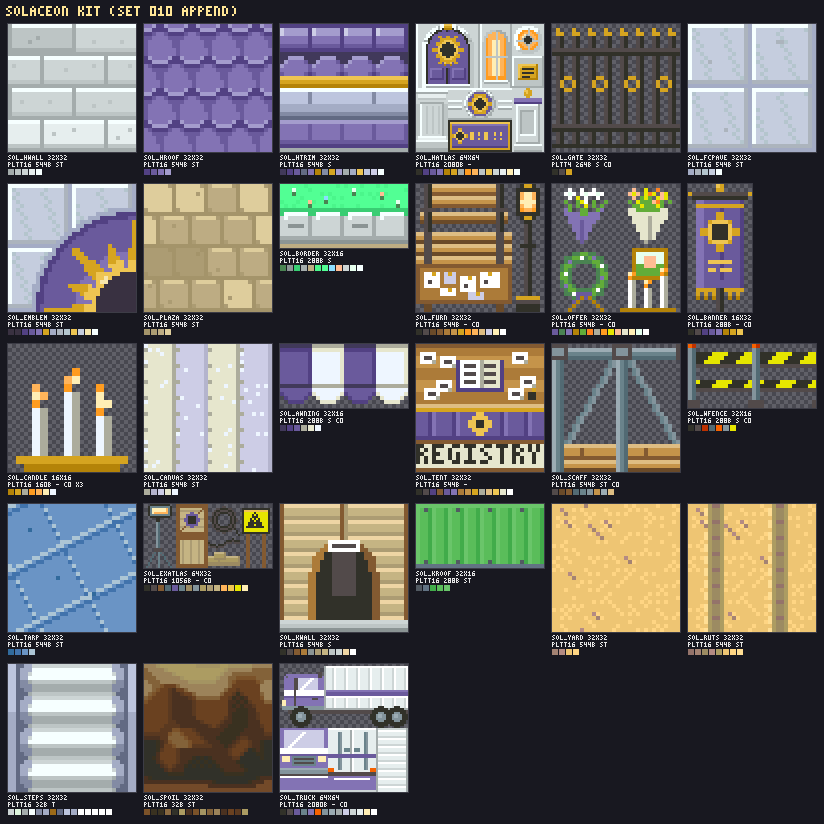
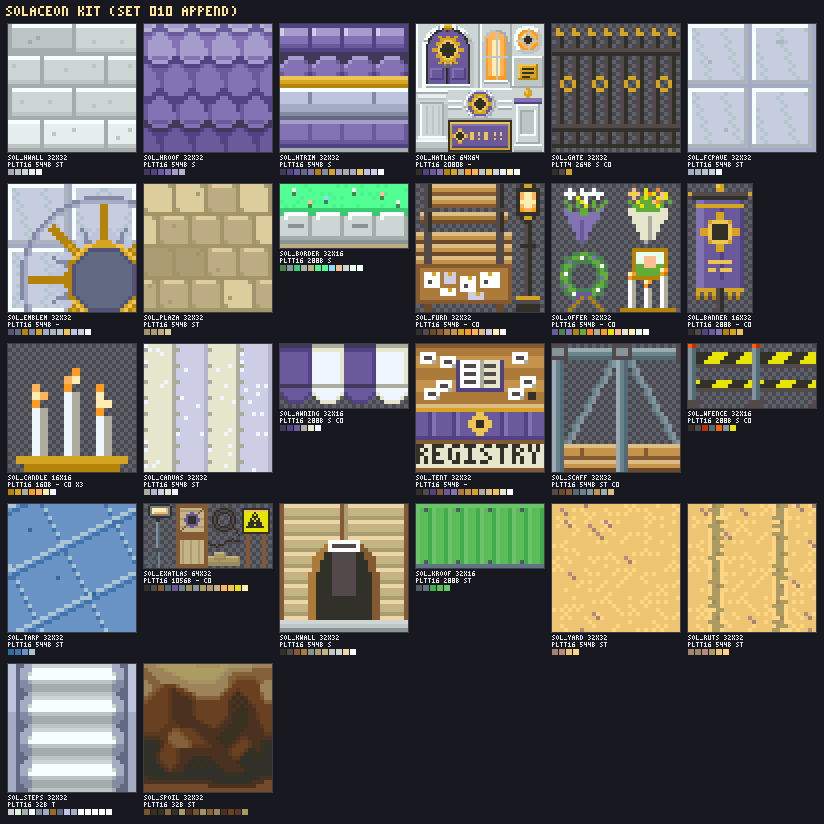
Solaceon town-art: art.md section 6 (the applied art pass, budgets, checks, verification, open issues), README, in-game screenshots, kit sheet; preview_kit follows the 3x3 emblem and the cut truck

diff --git a/tools/solaceon_town/art/preview_kit.py b/tools/solaceon_town/art/preview_kit.py
@@ -13,12 +13,12 @@ tools/lake_verity/blender_preview.py --views game --dscolor (CAMERA_TYPE_ZOOMED_
     gabled front bay to h 5), its walled compound with gate posts, open gate and forecourt emblem; the memorial plaza
     (benches, lanterns, card board, offerings, candles, garden of names); the registration tent; the excavation
     (scaffold, warning fence, work lights, KEEP OUT board, tarp pile, crates, cable, sandbags); the ranch (kennel
-    block, yard, truck).
+    block, yard).
 Every kit texture appears at least once (checked). Outputs to <preview dir>/render/:
   street_top.png            whole mock, straight down, 8 px per tile
   <view>_game.png           field camera on each zone (see VIEWS)
-The emblem uses a pre-mirrored preview copy (blender_preview.py has no mirrored repeat); the game material mirrors
-the 32x32 quadrant with repeat + flip.
+The emblem uses a pre-mirrored 48x48 preview copy of the 24x24 quadrant; the game draws the 3x3 inlay as four quads
+with mirrored UVs (tools/solaceon_town/build_art.py build_emblem).
 """
 import json
 import os
@@ -40,7 +40,7 @@ VIEWS = {
     "plaza": (8.0, 18.5),       # benches, lanterns, offerings, garden of names
     "tent": (18.0, 17.0),       # registration tent
     "dig": (41.0, 6.5),         # excavation
-    "ranch": (35.0, 19.0),      # kennel block, yard, truck
+    "ranch": (35.0, 19.0),      # kennel block, yard
 }
 
 
@@ -237,7 +237,7 @@ def compound(s):
     # forecourt: flags on the emblem's grid (u offset by half a tile), emblem decal on top
     s.tiled_floor("sol_fcpave", 17.0, 8.0, 34.0, 12.0, 0.01, 2.0, ox=23.5, oz=8.0)
     s.tiled_floor("sol_fcpave", 24.5, 12.0, 26.5, 13.0, 0.01, 2.0, ox=23.5, oz=8.0)
-    s.floor("sol_emblem_full", 23.5, 8.0, 27.5, 12.0, 0.02, (0, 0, 1, 1))
+    s.floor("sol_emblem_full", 24.0, 8.5, 27.0, 11.5, 0.02, (0, 0, 1, 1))     # 3x3 tiles (town-art)
     # lanterns in the forecourt corners, banners outside the gate
     s.mat("sol_furn")
     s.mat("sol_banner")
@@ -341,8 +341,8 @@ def dig(s):
 
 
 def ranch(s):
-    """Kennel block (x 24..32, z 19..21), loading yard (x 33..47, z 16..24), parked truck."""
-    for m in ("sol_kwall", "sol_kroof", "sol_yard", "sol_ruts", "sol_truck"):
+    """Kennel block (x 24..32, z 19..21), loading yard (x 33..47, z 16..24). (sol_truck was cut by town-art.)"""
+    for m in ("sol_kwall", "sol_kroof", "sol_yard", "sol_ruts"):
         s.mat(m)
     s.tiled_floor("sol_yard", 33, 16.0, 47.5, 24.0, 0.01, 2.0)
     s.floor("sol_ruts", 43.0, 16.0, 45.0, 24.0, 0.015, (0, 0, 1, 4))
@@ -357,16 +357,6 @@ def ranch(s):
            [(0, kl), (4.2, kl), (4.2, 0), (0, 0)])
     s.quad("sol_kroof", [(32.2, 2.0, 18.8), (23.8, 2.0, 18.8), (23.8, 2.8, 20), (32.2, 2.8, 20)],
            [(0, kl), (4.2, kl), (4.2, 0), (0, 0)])
-    # truck: side quads (cab + box in one image), cab front, rear doors, roofs
-    T = (64, 64)
-    x0, x1, z0, z1 = 38.0, 42.25, 19.0, 20.75
-    s.wall("sol_truck", x0, z1, x1, z1, 0, 2.0, px(0, 0, 64, 32, 64, 64))
-    s.wall("sol_truck", x1, z0, x0, z0, 0, 2.0, px(0, 0, 64, 32, 64, 64))
-    s.wall("sol_truck", x0, z0, x0, z1, 0.15, 1.65, px(0, 32, 24, 56, 64, 64))
-    s.wall("sol_truck", x1, z1, x1, z0, 0.15, 1.65, px(24, 32, 48, 56, 64, 64))
-    s.quad("sol_truck", [(39.4, 1.94, z1), (x1, 1.94, z1), (x1, 1.94, z0), (39.4, 1.94, z0)],
-           [(48 / 64, 32 / 64), (48 / 64, 1.0), (1.0, 1.0), (1.0, 32 / 64)])
-    s.floor("sol_truck", x0, z0, 39.4, z1, 1.62, px(0, 56, 24, 64, 64, 64))
 
 
 def ground(s):
@@ -387,14 +377,15 @@ def stock_prop(model_id, x, z, name, h=0.0):
 
 
 def full_emblem(src, dst):
-    """Mirror the 32x32 quadrant into the 64x64 the game shows (repeat + flip on s and t)."""
+    """Mirror the 24x24 quadrant (texels 0..23) into the 48x48 3x3-tile inlay the game draws with four mirrored-UV
+    quads (build_art.build_emblem)."""
     im = png.read(src)
     q = im.pixels
     rows = []
-    for y in range(64):
-        yy = y if y < 32 else 63 - y
-        rows.append([q[yy][x if x < 32 else 63 - x] for x in range(64)])
-    png.write_rgba(dst, 64, 64, rows)
+    for y in range(48):
+        yy = y if y < 24 else 47 - y
+        rows.append([q[yy][x if x < 24 else 47 - x] for x in range(48)])
+    png.write_rgba(dst, 48, 48, rows)
     open(dst[:-4] + ".json", "w").write('{"format": "pltt16"}')
 
 

diff --git a/docs/solaceon_redesign/art.md b/docs/solaceon_redesign/art.md
@@ -1,9 +1,10 @@
 # Solaceon redesign: texture kit (textures workstream)
 
-The kit holds 27 entries for set 010: 25 new textures and 2 palette-only recolours of stock set-010 texels. It is
-built to look like it shipped with Platinum, and it fits the PLAN.md budget of +24 KB with about 9 KB to spare. This
-workstream does **not** write set 010. `tools/solaceon_town/textures_kit.py` appends the kit, does a dry run by
-default, and is for town-art to run with `--write`.
+The kit holds 26 entries for set 010: 24 new textures and 2 palette-only recolours of stock set-010 texels. It is
+built to look like it shipped with Platinum, and it fits the PLAN.md budget of +24 KB with about 11 KB to spare.
+The town-art pass (section 6) applied it: `tools/solaceon_town/build_art.py --write` builds set 010 through
+`textures_kit.build` together with the final chunks 072/073 and the candle animation. Town-art changed three
+entries (the 3x3 toned-down emblem, the roof gradient, softer ruts) and dropped `sol_truck`.
 
 ![kit](art/kit_sheet.png)
 
@@ -91,13 +92,13 @@ Bytes are as `textures_kit.py` builds them: palettes are trimmed to the highest 
 | texture | group | format | size | frames | texel B | pal B | repeat | c0 | what / UV rule (16 texels per tile) |
 |---|---|---|---|---|---|---|---|---|---|
 | sol_hwall | hall | pltt16 | 32x32 | 1 | 512 | 16 | s t | 0 | pale ashlar, 16x8 blocks; hall walls and the compound wall |
-| sol_hroof | hall | pltt16 | 32x32 | 1 | 512 | 16 | s t | 0 | violet round tiles, rows along s; v down the slope, 2 tiles per repeat |
+| sol_hroof | hall | pltt16 | 32x32 | 1 | 512 | 16 | s | 0 | violet round tiles in 4 rows that darken from the ridge (v 0) to the eave (v 1), the stock light-to-dark roof band; v maps once across the whole slope (about 12 texels per tile down a 2.7-tile slope, inside the stock roof range 6 to 13); u 2 tiles per repeat |
 | sol_htrim | hall | pltt16 | 32x32 | 1 | 512 | 32 | s | 0 | 4 bands of 8 px (0.5 tile): v 0-.25 ridge cap, .25-.5 eave tile ends over a gold fascia, .5-.75 lilac plinth, .75-1 violet coping |
 | sol_hatlas | hall | pltt16 | 64x64 | 1 | 2048 | 32 | - | 0 | double door with eclipse (0,0 32x32 = 2x2 tiles); arched lit window (32,0 16x32); oculus (48,0); plaque (48,16); pilaster (0,32 16x32: capital rows 0-7, shaft 8-23 may stretch, base 24-31); gable medallion (16,32 32x16); sign board (16,48 32x16); gate post (48,32 16x32) |
 | sol_gate | hall | pltt4 | 32x32 | 1 | 256 | 8 | s | 1 | iron bars, gold spear tips and rings, see-through; gate leaves or railings |
 | sol_steps | hall | pltt16 | (newstep 32x32) | 1 | 0 | 24 | t | 0 | **palette only**: stock newstep + palette sol_steps (pale stone treads, lilac cheeks) |
 | sol_fcpave | forecourt | pltt16 | 32x32 | 1 | 512 | 16 | s t | 0 | forecourt flags, one per tile, blueglay-style checker |
-| sol_emblem | forecourt | pltt16 | 32x32 | 1 | 512 | 32 | s t + **flip** | 0 | quadrant of the 4x4-tile eclipse (dark disc, gold ring, violet corona, 16 gold rays); material repeat+flip s/t, UV 0..2 over the 4x4 tiles |
+| sol_emblem | forecourt | pltt16 | 32x32 | 1 | 512 | 32 | - | 0 | quadrant (texels 0..23 = 1.5 tiles) of the **3x3-tile**, toned-down eclipse inlay: slate disc, thin gold ring, 8 thin gold rays and 8 short lilac ones, a faint lilac corona, a carved lilac double ring, the forecourt flags showing through; texels 24..31 mirror it. Drawn as 4 quads with mirrored UVs (no flip material) |
 | sol_plaza | plaza | pltt16 | 32x32 | 1 | 512 | 16 | s t | 0 | warm beige setts, 4 per tile, running bond |
 | sol_border | plaza | pltt16 | 32x16 | 1 | 256 | 32 | s | 0 | garden-of-names edge strip 2x1 tiles: grass + flowers (v 0), kerb stones with name lines, kerb shadow (v 1) |
 | sol_furn | plaza | pltt16 | 32x32 | 1 | 512 | 32 | - | 1 | bench side (0,0 24x12 = 1.5x0.75 t), bench top (0,12 24x8), memorial card board (0,20 24x12), lantern post with lit lamp (24,0 8x32 = 0.5x2 t) |
@@ -115,31 +116,33 @@ Bytes are as `textures_kit.py` builds them: palettes are trimmed to the highest 
 | sol_kwall | ranch | pltt16 | 32x32 | 1 | 512 | 24 | s | 0 | kennel front: Day Care boards, one arched kennel + name plate per 2 tiles, concrete footing; rows 0-8 alone = plain boards for sides |
 | sol_kroof | ranch | pltt16 | 32x16 | 1 | 256 | 16 | s t | 0 | corrugated sheet in the Day Care roof green, ridges down the slope (t) |
 | sol_yard | ranch | pltt16 | 32x32 | 1 | 512 | 16 | s t | 0 | packed yard dirt (darker than the road) |
-| sol_ruts | ranch | pltt16 | 32x32 | 1 | 512 | 24 | s t | 0 | yard lane 2 tiles wide: same dirt, two tyre ruts 1 tile apart along t |
-| sol_truck | ranch | pltt16 | 64x64 | 1 | 2048 | 32 | - | 1 | parked truck: side with cab + box + wheels (0,0 64x32 = 4.25x2 t), cab front (0,32 24x24), rear doors (24,32), box roof (48,32 16x32), cab roof (0,56), bonnet (24,56) |
-| **total** | | | | | **14464** | **624** | | | **15088 B** |
+| sol_ruts | ranch | pltt16 | 32x32 | 1 | 512 | 16 | s t | 0 | yard lane 2 tiles wide: same dirt, two soft tyre ruts (checker-edged pressed bands, sparse tread marks) 1 tile apart along t |
+| **total** | | | | | **12416** | **584** | | | **13000 B** |
 
-**VRAM:** set 010 goes from 45952 B to **61088 B** (+15136 B with alignment; texels 44544 -> 59008, palettes
-1408 -> 2080). The budget is +24576 B, and the set stays below the 76416 B proven ceiling of set 048. The set grows
-from 63 to 88 textures and from 60 to 87 palettes. For scale: Solaceon's building textures, areabm_texset 6, take
+`sol_truck` (2080 B) was cut by town-art: the truck has to vanish in some story bands, so the bay gets ground and
+ruts only and the story scripts put crate objects there.
+
+**VRAM:** set 010 goes from 45952 B to **58992 B** (+13040 B with alignment; texels 44544 -> 56960, palettes
+1408 -> 2032). The budget is +24576 B, and the set stays below the 76416 B proven ceiling of set 048. The set grows
+from 63 to 87 textures and from 60 to 86 palettes. For scale: Solaceon's building textures, areabm_texset 6, take
 another 39120 B in the same texture VRAM bank.
 
-**Stretch items, cut first** (`textures_kit.STRETCH`): sol_truck 2080 B, then sol_ruts 536 B, sol_candle 144 B
-(fldtanime), sol_tarp 528 B and sol_border 288 B. Cutting all five saves about 3.6 KB. After those, sol_hatlas is
+**Stretch items, cut first** (`textures_kit.STRETCH`): sol_ruts 528 B, sol_candle 144 B (fldtanime), sol_tarp
+528 B and sol_border 288 B (sol_truck is already cut). Cutting all four saves about 1.5 KB. After those, sol_hatlas is
 the biggest single item. Its regions could drop to 32x64, losing the gate post and the sign, which saves about
 1 KB.
 
 ### Material rules for town-art
 
 - Map materials as stock: lit (`poly_attr 0x001f8081`), back-face culled. The see-through c0 textures (gate, scaff,
-  wfence, awning, furn, offer, banner, candle, exatlas, truck) want `cull none` where both sides show.
+  wfence, awning, furn, offer, banner, candle, exatlas) want `cull none` where both sides show.
   - The kit bakes light only into small accents: lit window glass, lamps, candle flames, the gold flash. It all
     follows the area light like stock.
-- **Emblem:** the material for sol_emblem needs repeat **and flip** on s and t (`make_material(..., flip=(True,
-  True))`). Map UV 0..2 over the 4x4 tiles, which centres the disc on the tiles' shared corner. The emblem's outer
-  flags sit on its own tile grid. Its centre is on the door axis (a 9-wide hall puts the door tile at x+4, so the
-  disc centre is at a tile *centre*). When that happens, offset the sol_fcpave UV by half a tile
-  (`u = (x - x_emblem0) / 2`) so the flags line up, as the mock does.
+- **Emblem (as applied, 3x3):** four quads over layout.EMBLEM (x 579..581, z 654..656), split at the centre
+  (580.5, 655.5): NW u 0..0.75 / v 0..0.75, NE u 0.75..0, SW v 0.75..0, SE both mirrored; no repeat, no flip. The
+  sol_fcpave UV origin is the emblem's NW corner (`u = (x - 579) / 2, v = (z - 654) / 2`), the rule above with a
+  3x3 inlay whose edges fall on tile edges, so its flags and the forecourt's line up. (The 4x4 version needed a
+  half-tile offset and a flip material; neither is used now.)
 - **Palette-only entries:**
   - `sol_steps`: texture `newstep`, palette `sol_steps`
   - `sol_spoil`: texture `criffp`, palette `sol_spoil`
@@ -208,16 +211,135 @@ python3 tools/solaceon_town/textures_kit.py --write      # refuses if any check 
 ## 5. Open questions
 
 - **Platinum feel** (judged from renders only, not on hardware):
-  - The forecourt emblem is large and bright. It is the plan's centrepiece, but at 4x4 tiles of saturated violet
-    and gold it is the loudest thing on screen. A 3x3 version or a duller corona (violet3 instead of gold rays) is a
-    one-line change.
-  - The violet roof is a regular scallop pattern with no baked gradient. Stock roofs bake a light-to-dark band into
-    the atlas, and lighting does part of that work here.
-  - The truck is new territory: Sinnoh towns have no parked vehicles. It reads as a box truck, but it is a stretch
-    item.
-- Not checked in game: the flip material on sol_emblem, the fldtanime entry for sol_candle, and the night look of
-  the baked warm accents.
+  - (Resolved by town-art) the emblem is 3x3 and toned down; the roof has the ridge-to-eave gradient; the truck is
+    cut.
+- Checked in game by town-art (section 6): the sol_candle fldtanime entry animates (two screenshots 10 frames apart
+  differ); the baked warm accents (windows, lamps) darken at night with everything else, as lit materials do.
 - Banners: the moving Eclipse banners are object events. `sol_banner` should match their colours, but I have not
   compared it against the object sprite.
 - The hall here is a graybox of my own. Its real footprint, heights and door tile come from the town-layout
   workstream, and the UV rules above work for any layout.
+
+## 6. The town-art pass (applied; town-art workstream)
+
+`tools/solaceon_town/build_art.py` turns the graybox into the final map_data_072/073 and applies the kit. It reads its
+stock inputs from git at `BASE_REV = 50482f890` (chunks, set 010, build models, area data) and the kit from
+`tools/solaceon_town/assets/textures/`, so reruns never feed back; a second `--write` is byte-identical.
+
+```
+python3 tools/solaceon_town/build_art.py                     # dry run: budgets + every check
+python3 tools/solaceon_town/build_art.py --preview OUT       # OUT/art/: decoded chunk meshes, props, textures
+python3 tools/solaceon_town/render.py OUT --art --cycles     # OUT/art_top.png + art_<view>_game.png (field camera)
+python3 tools/solaceon_town/build_art.py --write             # map_data_072/073, set 010, fldtanime.narc
+tools/macos/build.sh dev
+python3 tools/solaceon_town/art_test.py build_macos OUT/game --night --skip-route-209   # in-game screenshots
+```
+
+It writes `res/field/mapmodels/data/map_data_072.bin` / `073.bin` (`OUT_MAP_DIR`), set 010 at
+`textures_kit.SET_REL` (`res/field/mapmodels/texture_sets/`) and `res/prebuilt/data/fldtanime.narc`. The tile
+contract is untouched: permissions and BDHC come from collision.py, the props are the graybox's (Day Care, PC, Mart,
+three t4_h01 houses, the gym door 298 on the hall door), and the builder checks all of it.
+
+![hall](art/game_day_07_hall_door.png)
+
+### What it builds
+
+Stock terrain outside `layout.REBUILD` stays byte for byte (the Day Care ranch with the memorial wall, untouched;
+build_wall.py is not rerun; and the Ruins hill). Inside, everything is new, lit like stock and back-face culled
+except the see-through cards (`<kit>_2s` materials, cull none):
+
+- **Ground:** stock `ngrass`, `nsand`, the stock road-edge mapping of `nsandp`, stock `l_grass_u/m/d` tall grass;
+  `sol_plaza` setts on the plaza and in front of the Pokemon Center; inside the compound a paved forecourt
+  (`sol_fcpave`, x 575..585, z 653..657, UV origin on the emblem's NW corner) between lawns (`ngrass`) with two
+  `nhana` flower beds; the 3x3 `sol_emblem` inlay (four quads); `sol_yard` dirt for the dig, the kennel block and the
+  loading yard; the `sol_ruts` lane (2 tiles wide, z 666..668) from the truck bay's west end (x 550) to the road
+  verge (x 557). No truck: the bay is ground and ruts only, for story crate objects.
+- **Sanctuary hall** (footprint x 576..584, z 648..652): body x 576.1..584.9 from z 648.15; wing fronts at
+  z 651.45, 2.5 tiles of pale ashlar on a 0.5-tile lilac plinth, corner pilasters, one lit arched window per wing;
+  the front bay x 578.6..582.4 flush with the gym door prop (z 651.98 vs the prop's 652.0), walls 3.5, the opening
+  behind the door dark (seen when it slides), pilasters either side, the sign board above the door and the
+  medallion in the gable (apex 5.0 tiles, ridge cap 5.1, taller than a house's 4.7); a violet hip roof (eaves 2.5,
+  ridge 4.0, 0.3 overhang, gold eave fascia, ridge cap) with the bay's gable roof running back into it. The
+  blocked door row carries steps across the bay (`sol_steps`, two treads) and 0.4-tile flower planters (lilac
+  plinth, `nhana` top) in front of the wings.
+- **Compound:** a 0.95-tile wall (ashlar to 0.55, violet coping band and top) on the layout ring; iron railings
+  (`sol_gate`, gold spear tips) on the street-side wall either side of the gate; gate pillars (the `sol_hatlas` gate
+  post on three faces, coping caps); the gate itself stands open; forecourt lanterns; Eclipse supply crates
+  (`sol_exatlas`) in the west yard.
+- **Pilgrim road:** the four banner posts (`sol_banner` cards leaning back 18 degrees, like stock props lean toward
+  the camera); the registration tent: canvas back (just inside the fence row, so the clerk's tile only has the roof
+  over it), sides, gable ends and a pitched roof, the striped valance across the open south front with its bottom
+  1.45 tiles up, front poles on the table row's edge, the table (ledger and cards on top, eclipse front cloth),
+  record boxes either side of the clerk and the REGISTRY board over the valance; the tent sign is the `sol_hatlas`
+  sign board on a post.
+- **Plaza:** lanterns (`sol_furn`, 2 tiles, leaning 14 degrees so they do not cover the tile behind), the bench along
+  x 563 facing the wall (slatted seat, backrest, end boards), offerings at both ends of the wall (wreath / photo
+  cards 1 tile tall, lilies / posy, and the animated `sol_candle` dish), the memorial plaque lectern, the kerb with
+  name lines along the garden's plaza side.
+- **Excavation:** scaffold faces and ends along the cliff (the west deck under a blue tarp, the east one planks),
+  work lights, the warning fence on z 659 with the gap, the KEEP OUT board on the warning-sign tile, a crate stack,
+  a spoil heap (`sol_spoil`), a cable and sandbags as ground decals.
+- **Ranch:** the kennel block (boards with one arched kennel per stall, the arch centred on each stall tile), a
+  mono-pitch green corrugated roof, board dividers, the kennel sign plaque; stock picket fences around the yard.
+- Stock-style trees (the 4 quads of a stock tree2_01 tree) and picket fences (imped) as in the graybox.
+
+**Lighting:** every new material is lit (stock map attributes), so it follows the time-of-day light. Light is baked
+only into small texture accents (window glass, lamp heads, candle flames), which darken at night with everything else
+(see `art/game_night_07_hall_door.png`); the stock houses' night-lit windows are a prop feature the terrain does not
+have.
+
+**Candle animation:** fldtanime entry `sol_candle` (3 frames x 6 VBlanks), added or replaced by name in the work
+tree's archive (entry 55 / member 56 on this branch). Its frames are checked to share the base texture's palette,
+size and (frame 1) texels. After merging another branch that also appends to fldtanime, rerun `build_art.py --write`.
+
+### Budgets (as written)
+
+| chunk | polygons | stock kept | new | verts sent | model B | BDHC B | materials | props |
+|---|---|---|---|---|---|---|---|---|
+| 072 | 420 | 165 | 255 | 1676 | 26296 | 66 | 47 | 8 (391 polygons) |
+| 073 | 765 | 479 | 286 | 2609 | 38320 | 172 | 35 | 5 (188 polygons) |
+
+Limits: 1000 polygons and 45 KB (46080 B) of model per chunk, hard 0xF000. On screen (terrain of every loaded chunk
+incl. 068/074/filler plus all props, frustum + back-face culling at every walkable tile): worst 343 polygons with
+CAMERA_TYPE_DEFAULT and 354 with the zoomed-in camera; limit 2048. Set 010: 45952 -> 58992 B (+13040 B of the
++24576 B budget; ceiling 76416 B), 26 kit entries, stock textures and palettes unchanged.
+
+### Checks (`--write` refuses on any FAIL)
+
+Permissions and BDHC equal layout.py in both chunks; all 93 layout checks (anchors, seams, edges, signs, NPC spots,
+reachability); every door tile has a building behind it and a door prop on it; props in area 0xA's list and identical
+to the graybox's; untouched stock shapes and all stock materials byte-identical; every walkable rebuilt tile is drawn
+at its layout height; nothing solid is drawn inside a walkable tile below 1.3 tiles (stock tree overhangs aside);
+polygon / model / on-screen budgets; set 010 kit budget, ceiling and stock-unchanged checks (textures_kit.build); every
+kit entry is used by the town; the candle frames' palette, size and texels.
+
+### Verification
+
+- **Renders** through the game camera (Cycles CPU): `/tmp/Solaceon Update/art_mac/art_top.png` and
+  `art_{northroad,tent,wall,garden,gate,forecourt,door,gap,yard,southexit}_game.png`.
+- **In game** (`tools/solaceon_town/art_test.py`, SIM_CONTROL=stdio, the Eterna Forest test save, warps): day (12:00)
+  and night (22:00, SIM_FIXED_RTC) screenshots of 12 spots in `/tmp/Solaceon Update/art_mac/game/`; the candle
+  changes between two frames; the player walks into the hall door (MAP_HEADER_SOLACEON_SANCTUARY, arrival (10,19))
+  and back out to (580,652); across the north seam into Route 210 South and back, and the seam columns x 557 / 563.
+  Copies of six top screens are in `art/game_*.png`.
+- **Route 209:** on this branch every entry to Route 209 hangs (its `Route209_OnTransition` ends in
+  `GoTo Route209_OnTransition`, a loop; it reproduces on the lead's build of 35c1c69f6, so it is not the art). With a
+  temporary local fix (`GoTo Route209_OnTransitionStock`, reverted, not committed) the south seam was walked both ways
+  and on x 557 / 563, day and night: `/tmp/Solaceon Update/art_mac/game/route209_crossing_tempfix/`. The committed
+  test uses `--skip-route-209` (walks onto the seam row z 671) until the script is fixed.
+- **walkcheck** (`tools/qa/walkcheck.py --map MAP_HEADER_SOLACEON_TOWN`, run on a shim tree with the devserver
+  paths, since the tool reads `include/data/map_headers.h` and `res/field/maps/data`): 0 HIGH; against the graybox
+  56 findings resolved and none new apart from 6 low-obstacle tiles, allowlisted with reasons in
+  `tools/qa/walkcheck_allow.json` (the two hall planters on the blocked door row, the four warning-fence tiles).
+
+### Open issues
+
+- The stock gym door prop (298) is blue; it reads as glass doors in the pale facade, but the kit's violet double door
+  (`sol_hatlas` 0,0 32x32, 512 B) is unused. A violet door needs its own door prop (a build model), not terrain,
+  because the door must animate.
+- The Eclipse banners on the four posts are terrain, so they stay in every band (also postgame); the Rowan banners
+  that come down in band C are separate signboard objects.
+- Lamps and windows do not glow at night (lit materials). An unlit lamp-head card per lantern would glow, at one
+  more material per chunk.
+- The memorial plaque lectern is terrain in every band (its text is band F only).
+- `tools/qa/walkcheck.py` cannot read the macOS tree directly (paths); a shim tree was used.

diff --git a/tools/solaceon_town/README.md b/tools/solaceon_town/README.md
@@ -25,7 +25,30 @@ python3 tools/solaceon_town/build_graybox.py --write
 python3 tools/solaceon_town/warps.py --write
 ```
 
-The town-art workstream applies the art over this graybox later (set 010 is not touched here). `textures.py` and
+## The art pass (town-art workstream)
+
+`build_art.py` replaces the graybox with the final art (docs/solaceon_redesign/art.md section 6): the same tile
+contract, props, permissions and BDHC, with the hall, compound, tent, plaza furniture, excavation and kennel built from
+the set-010 kit, plus the kit append to set 010 and the sol_candle fldtanime entry. It supersedes build_graybox.py's
+output (rerunning build_graybox.py --write would put the graybox back).
+
+| file | what |
+|---|---|
+| `build_art.py` | Writes map_data_072/073 (to `res/field/mapmodels/data/`), set 010 (`textures_kit.SET_REL`) and fldtanime.narc. Dry run by default, `--preview DIR` (DIR/art/), `--write` (refuses if a check fails; idempotent). |
+| `art_test.py` | Headless in-game test on the macOS app: screenshots of 12 spots by day and night, the candle animation, the hall door in and out, both seams. `--skip-route-209` while Route 209's OnTransition loops. |
+| `render.py --art` | Field-camera renders of the art preview (views north, tent, wall, garden, gate, forecourt, door, gap, yard, southexit, ...). |
+| `textures_kit.py` | The kit append (now driven by build_art.py; still runs alone as a dry run). |
+| `art/paint_kit.py` | Paints the kit (town-art changed sol_emblem to the 3x3 toned-down inlay, sol_hroof to the ridge-to-eave gradient, softened sol_ruts and cut sol_truck). |
+
+```
+python3 tools/solaceon_town/build_art.py --preview "/tmp/Solaceon Update/art_mac"
+python3 tools/solaceon_town/render.py "/tmp/Solaceon Update/art_mac" --art --cycles
+python3 tools/solaceon_town/build_art.py --write
+tools/macos/build.sh dev
+python3 tools/solaceon_town/art_test.py build_macos "/tmp/Solaceon Update/art_mac/game" --night --skip-route-209
+```
+
+The graybox notes below describe the layout pass, which the art keeps. `textures.py` and
 `build_wall.py` below are the earlier Arc 2 wall edit; their output is part of BASE_REV and is kept by the graybox
 (do not rerun build_wall.py over the graybox: it rebuilds 072 from the older stock).
 
